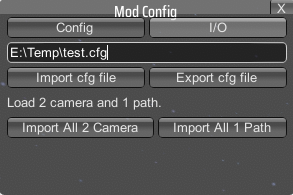
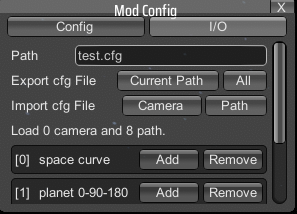
[CameraTools] v0.4.0

diff --git a/CameraTools/src/Plugin.cs b/CameraTools/src/Plugin.cs
@@ -16,18 +16,58 @@ namespace CameraTools
     {
         public const string GUID = "starfi5h.plugin.CameraTools";
         public const string NAME = "CameraTools";
-        public const string VERSION = "0.3.0";
+        public const string VERSION = "0.4.0";
 
         public static ManualLogSource Log;
         public static ConfigFile ConfigFile;
         public readonly static List<CameraPoint> CameraList = new();
         public readonly static List<CameraPath> PathList = new();
-        public static CameraPoint ViewingCam { get; set; } = null;
+        public static CameraPoint ViewingCam
+        {
+            get => viewingCam;
+            set
+            {
+                if (GameMain.mainPlayer != null && GameMain.localPlanet == null)
+                {
+                    if (value != null && viewingCam == null && viewingPath == null) // No view => View
+                    {
+                        lastPlayerUpos = GameMain.mainPlayer.uPosition;
+                    }
+                    else if (value == null && viewingPath == null) // View => No view
+                    {
+                        if (ModConfig.MovePlayerWithSpaceCamera.Value)
+                            GameMain.mainPlayer.uPosition = lastPlayerUpos;
+                    }
+                }
+                viewingCam = value;
+            }
+        }
         public static CameraPoint LastViewCam { get; set; } = null;
-        public static CameraPath ViewingPath { get; set; } = null;
+        public static CameraPath ViewingPath
+        {
+            get => viewingPath;
+            set
+            {
+                if (GameMain.mainPlayer != null && GameMain.localPlanet == null)
+                {
+                    if (value != null && viewingCam == null && viewingPath == null) // No view => View
+                    {
+                        lastPlayerUpos = GameMain.mainPlayer.uPosition;
+                    }
+                    else if (value == null && viewingCam == null) // View => No view
+                    {
+                        if (ModConfig.MovePlayerWithSpaceCamera.Value)
+                            GameMain.mainPlayer.uPosition = lastPlayerUpos;
+                    }
+                }
+                viewingPath = value;
+            }
+        }
         public static FreePointPoser FreePoser { get; set; } = null;
-        
 
+        static CameraPoint viewingCam;
+        static CameraPath viewingPath;
+        static VectorLF3 lastPlayerUpos;
         Harmony harmony;
 
         public void Awake()

diff --git a/CameraTools/README.md b/CameraTools/README.md
@@ -28,6 +28,11 @@ Click on the button to modify the editing camera position and angle with free 3D
 - Middle mouse: Hold to rotate  
 - Right click: Hold to roll  
 
+## Path List
+![path list](https://raw.githubusercontent.com/starfi5h/DSP_Mod_Support/dev/CameraTools/img/path-list.png)  
+The top input field can change the name of the current path.  
+Close the window to save the name change.  
+
 ## Path Config (Alt+F6)
 ![path config](https://raw.githubusercontent.com/starfi5h/DSP_Mod_Support/dev/CameraTools/img/path-config.png)  
 Create a camera path moving from point to point.  
@@ -51,20 +56,24 @@ When Auto Split toggle is on, it will evenly split time ratio for all the keypoi
 - Insert keyframe will insert the current view into the current progression time.  
 - Append keyframe will add the current view at the last of all keyframes.  
 
-## Path List
-![path list](https://raw.githubusercontent.com/starfi5h/DSP_Mod_Support/dev/CameraTools/img/path-list.png)  
-The top input field can change the name of the current path.  
-Close the window to save the name change.  
+### Target
+![target](https://raw.githubusercontent.com/starfi5h/DSP_Mod_Support/dev/CameraTools/img/demo2.gif)  
+The target to look at during playback.  
+When the target config window is opened, it shows a pink sphere marker to indicate where the camera is looking at.  
+Can set it to a fixed point on the planet or space, or a moving point relatived to the mecha.  
 
 ## Installation & Mod Config
 ![plugin config](https://raw.githubusercontent.com/starfi5h/DSP_Mod_Support/dev/CameraTools/img/plugin-config.png)  
 Via [r2modman](https://thunderstore.io/c/dyson-sphere-program/p/ebkr/r2modman/), or manual download the file and put `CameraTools.dll` in `BepInEx/plugins` folder.  
 Keyboard shortcuts can be changed in the mod config window.  
 All mod config together with stored camera data is in `BepInEx\config\starfi5h.plugin.CameraTools.cfg`.  
+
+### Import/Export camera and path settings
 ![import/export window](https://raw.githubusercontent.com/starfi5h/DSP_Mod_Support/dev/CameraTools/img/io-window.png)  
 In config window - IO tab, it can import/export config file containing the camera and path data.  
 Input field to input the target file path. The acceptable file extension is `.cfg`.  
-After importing success, user can choose to import all cameras or all paths from the file.  
+If the directory is not provided, it will use `BepInEx\config\CameraTools\`.  
+After importing success, user can choose which camera or path to add in the list.  
 
 ## Known issues
 - The star image will distort when space camera position is different from player's.  
@@ -72,6 +81,12 @@ It can be fixed by letting player move along with space camera in mod config.
 - Rotation is not smooth enough in curve camera path with respect to position changes.  
 
 ## ChangeLogs
+
+#### v0.4.0
+- Path: Add target for camera to look at.
+- Config `MovePlayerWithSpaceCamera` default value is now true. When stop viewing, the mecha will go back to the original position in space.
+- Add scroll list in I/O window to view and select imported camera or path to add.  
+- Add ZHCN translation.
 
 #### v0.3.0
 - Fix camera path is not smooth in space. Add VectorLF3 json convertor in TomlTypeConverter.   
